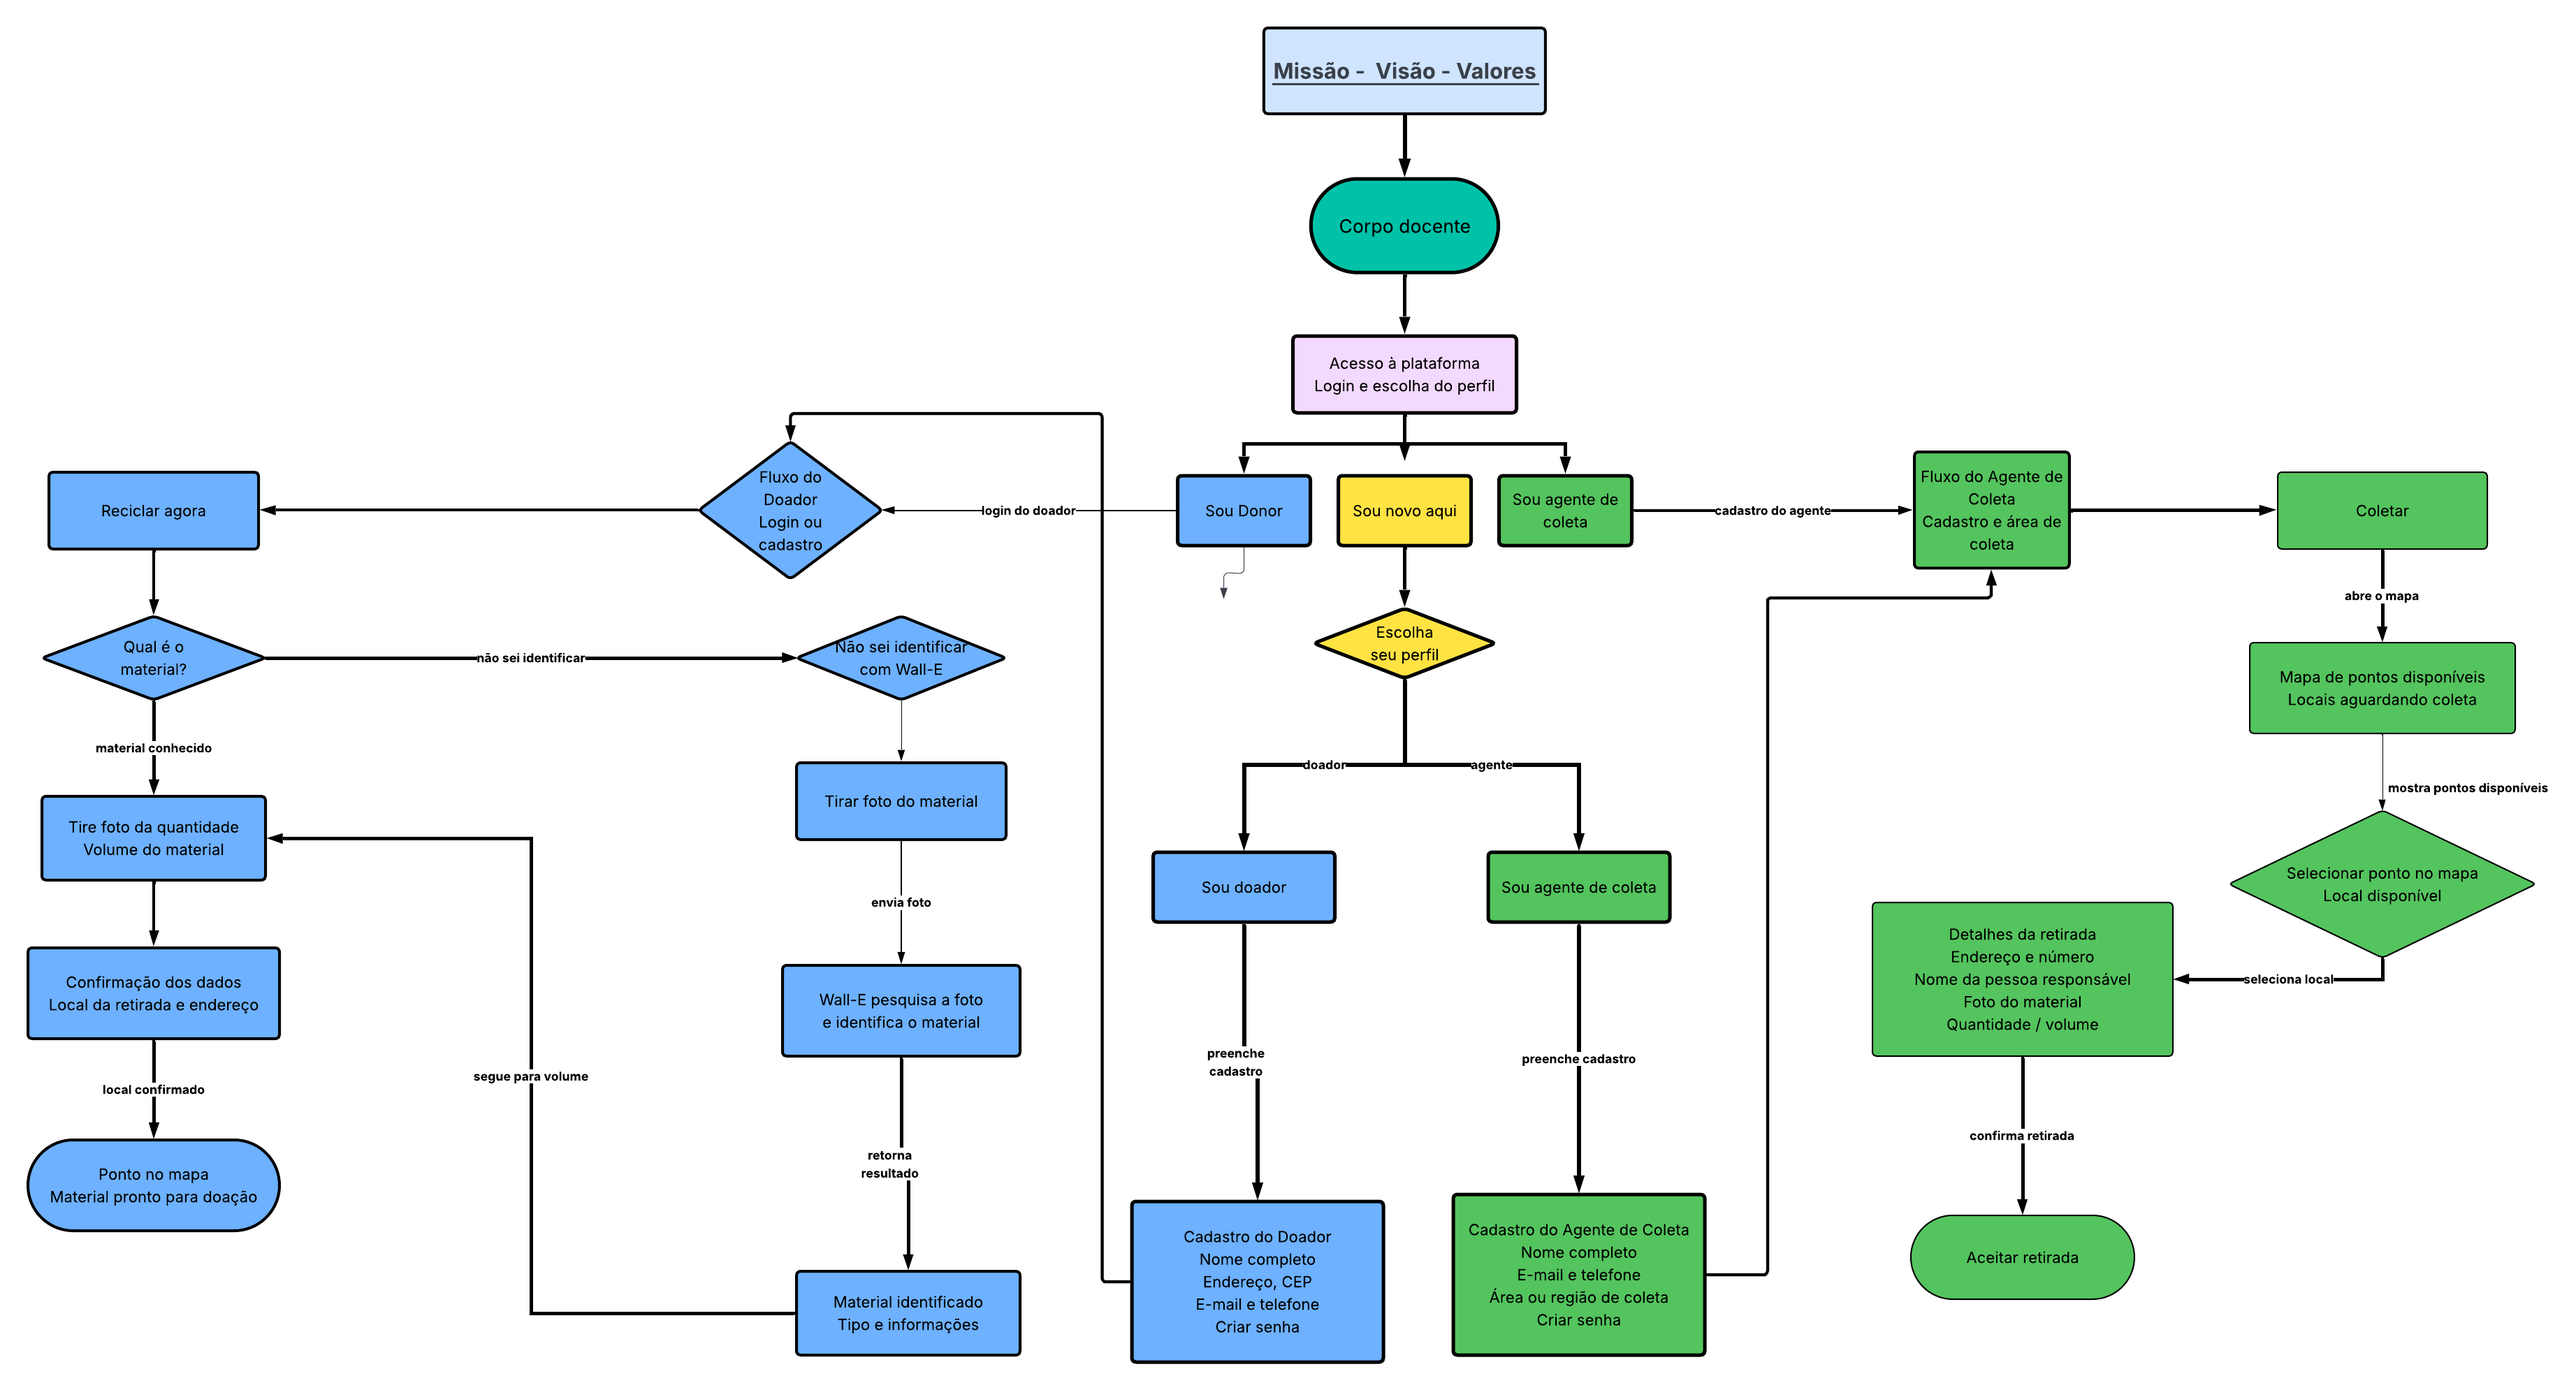
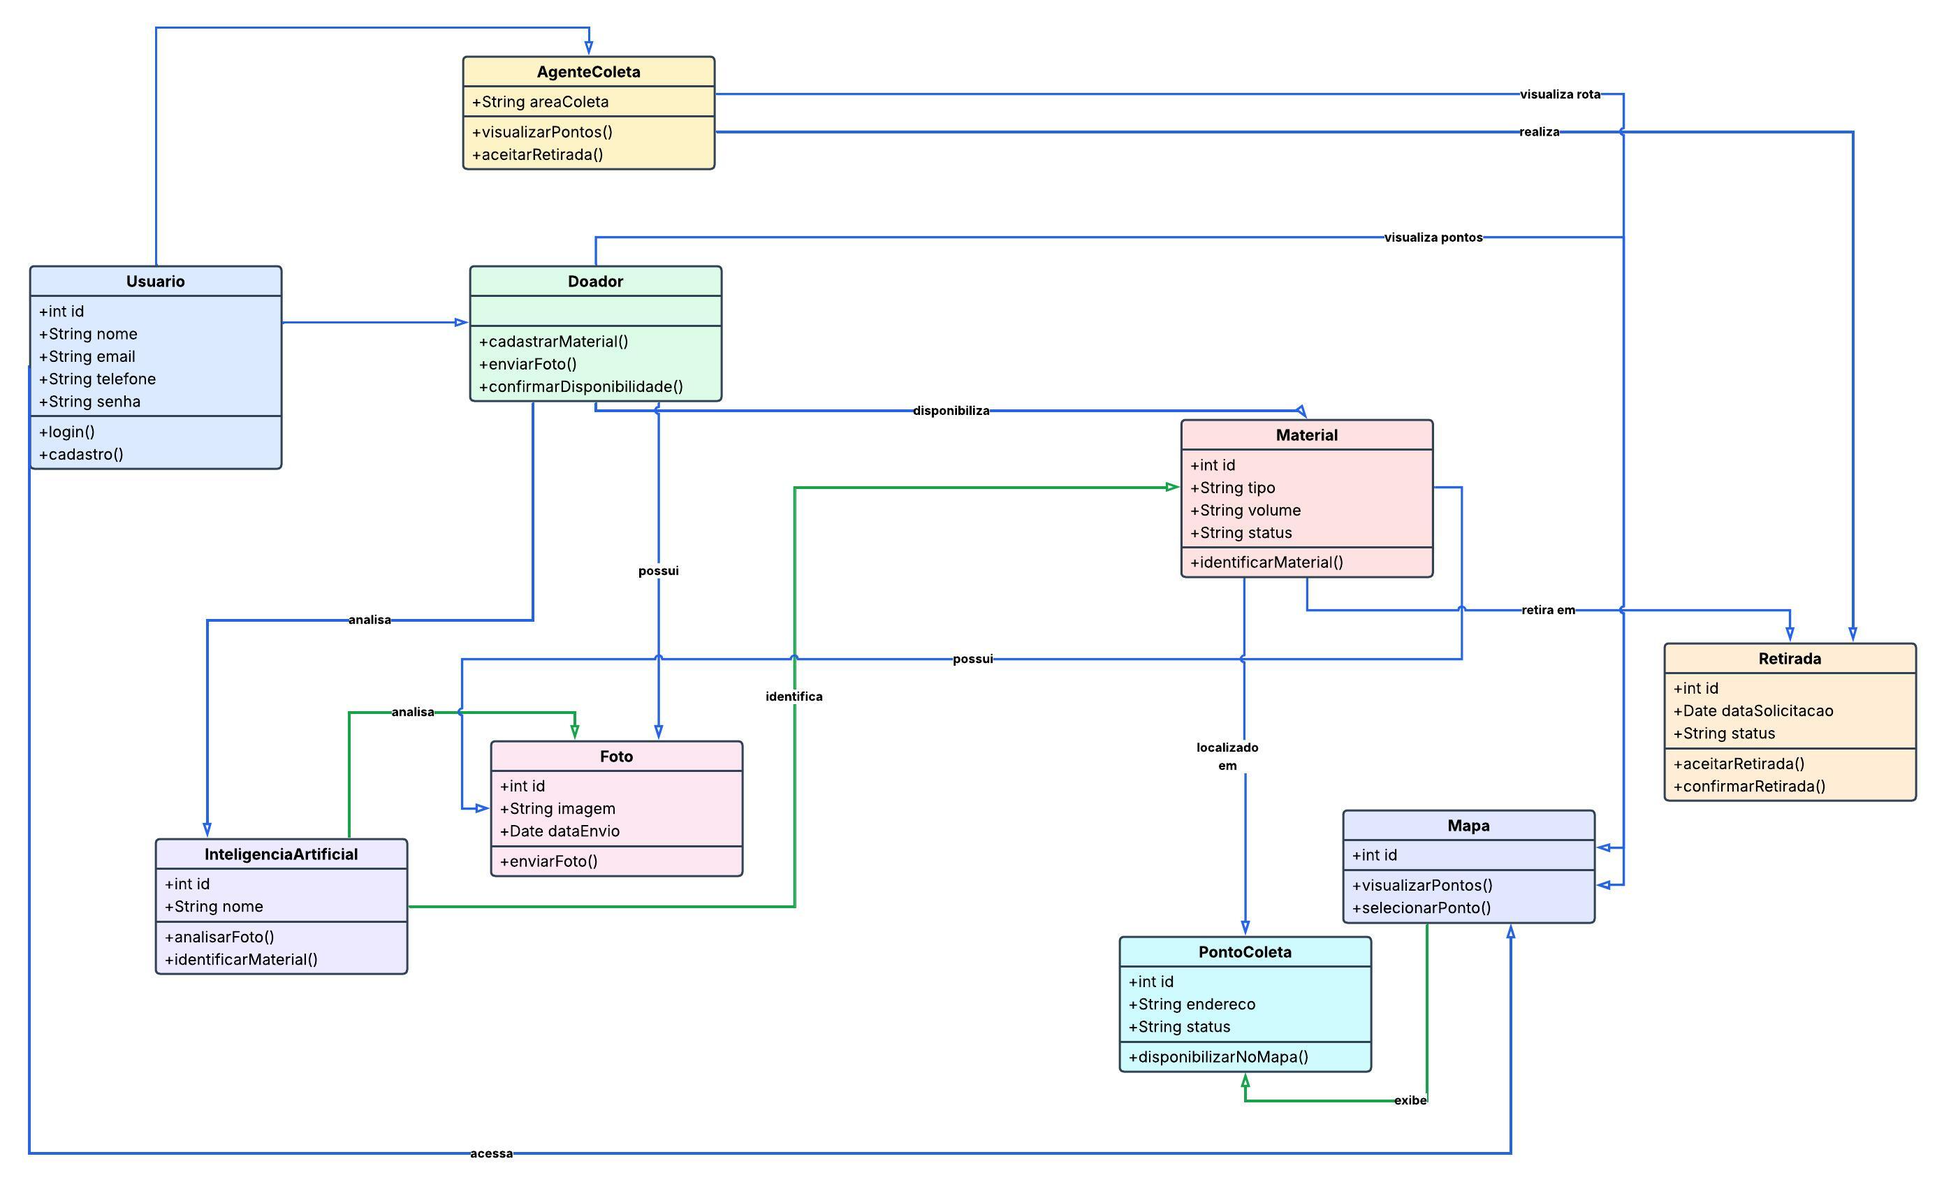
atualizado

diff --git a/Docs/ARQUITETURA.md b/Docs/ARQUITETURA.md
@@ -2,4 +2,4 @@
 
 As decisões do EcoMap foram definidas com base nas necessidades dos dois principais usuários da plataforma: doador e agente de coleta. O fluxo permite que o usuário escolha seu perfil e siga uma jornada específica para sua função. Para o doador, também foi considerada a possibilidade de o material não ser identificado, utilizando o WALL-E para auxiliar na identificação por imagem. Dessa forma, o sistema busca tornar o processo de descarte e coleta mais simples, organizado e acessível.
 
-![alt text](image-1.png)
+![alt text](image.png)
